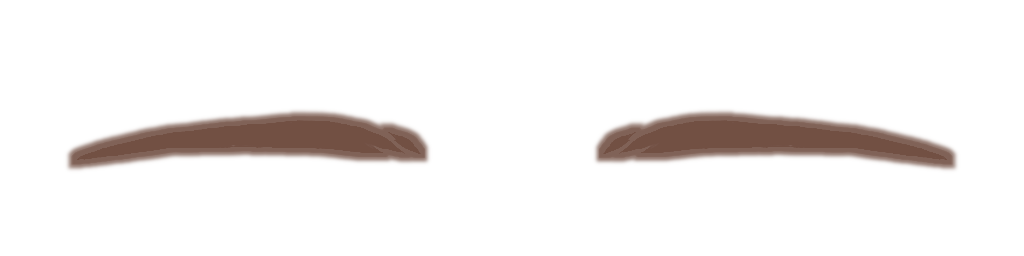
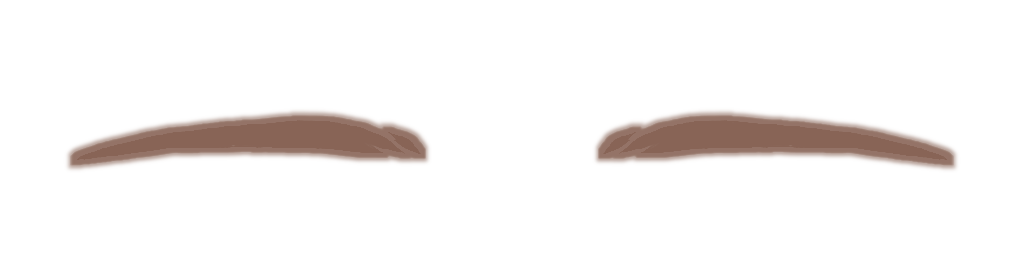
Luna's face reshape candidate (for approval): Blender reshape tools, softer smile, test switch
- tools/face_style/reshape: imports her shipped VRM, deforms face + all shape keys + blush + front hair (curtain
  bangs) + eye bones with one smooth field, exports a new VRM. The candidate VRM itself stays out of git until approved.
- FaceController: per-character recipes (Luna's happy and shy use her gentle EYE_Natural instead of half-shut joy),
  joy_floor (half-way "joy" no longer droops her lids into a sullen look).
- Appearances: avatar_variants lets a candidate model under review use its stage's profile; facestills
  --fs-luna-avatar puts it on for the stills only. Her live model is unchanged.
- Brows a little lighter and softer.

Claude-Session: https://claude.ai/code/session_01E4p1kc7YVicgZvjTJsM5Ap

diff --git a/tools/face_style/reshape/reshape.py b/tools/face_style/reshape/reshape.py
@@ -1,0 +1,210 @@
+# Luna's face reshape (Blender, background). One smooth deformation field f(p), applied to the Face mesh, every one of
+# its shape keys (each key's own positions, so blinks and visemes scale with the new eyes and mouth), the blush mesh,
+# the front hair (curtain bangs) and the eye bones. Works on a copy; the source .blend is never saved over.
+# usage: blender -b <copy>.blend --python reshape.py -- <params.json> <out.blend|-> [out.vrm]
+import bpy, bmesh, sys, json, math
+import numpy as np
+from mathutils import Vector
+
+args = sys.argv[sys.argv.index('--') + 1:]
+P = json.load(open(args[0]))
+out_blend = args[1]
+out_vrm = args[2] if len(args) > 2 else None
+
+face = bpy.data.objects['Face']
+A = [o for o in bpy.data.objects if o.type == 'ARMATURE'][0]
+me = face.data
+mw = np.array(face.matrix_world)
+imw = np.linalg.inv(mw)
+
+
+def world(co):
+    return co @ mw[:3, :3].T + mw[:3, 3]
+
+
+def local(p):
+    return p @ imw[:3, :3].T + imw[:3, 3]
+
+
+def sstep(e0, e1, x):
+    t = np.clip((x - e0) / (e1 - e0), 0, 1)
+    return t * t * (3 - 2 * t)
+
+
+# ---------------------------------------------------------------- landmarks from the basis
+B = world(np.array([v.co for v in me.vertices]))
+mat_of = np.zeros(len(B), int)
+for p in me.polygons:
+    for v in p.vertices:
+        mat_of[v] = p.material_index
+names = [m.name for m in me.materials]
+def mverts(sub):
+    i = [k for k, n in enumerate(names) if sub in n][0]
+    return np.nonzero(mat_of == i)[0]
+iris = B[mverts('EyeIris')]
+eyeL = iris[iris[:, 0] > 0].mean(0); eyeR = iris[iris[:, 0] < 0].mean(0)
+mouth = B[mverts('FaceMouth')].mean(0)
+skin_i = mverts('_Face_00_SKIN')
+S = B[skin_i]
+chin_z = S[(np.abs(S[:, 0]) < 0.004) & (S[:, 1] < -0.05)][:, 2].min()
+nz = S[(np.abs(S[:, 0]) < 0.003) & (S[:, 2] > mouth[2] + 0.01) & (S[:, 2] < eyeL[2] - 0.005)]
+nose = nz[nz[:, 1].argmin()]
+eye_z = (eyeL[2] + eyeR[2]) / 2
+lm = {'eyeL': eyeL.round(4).tolist(), 'eyeR': eyeR.round(4).tolist(), 'mouth': mouth.round(4).tolist(),
+      'nose_tip': nose.round(4).tolist(), 'chin_z': round(float(chin_z), 4)}
+print('LANDMARKS', json.dumps(lm))
+
+# skin boundary (the neck seam and the back edge) stays put: weight fades in over `seam_fade` metres
+bm = bmesh.new(); bm.from_mesh(me)
+bnd = np.array([v.index for v in bm.verts if v.is_boundary and mat_of[v.index] == mat_of[skin_i[0]]])
+bm.free()
+# only the real seams (neck, back of the head): not the eye and mouth openings in the skin
+Bb = B[bnd]
+near_feature = (np.abs(Bb[:, 2] - eye_z) < 0.03) & (Bb[:, 1] < -0.04) | (np.abs(Bb[:, 2] - mouth[2]) < 0.012) & (np.abs(Bb[:, 0]) < 0.03) & (Bb[:, 1] < -0.05)
+bnd = bnd[~near_feature]
+print('SEAM verts', len(bnd), 'z range', B[bnd][:, 2].min().round(4), B[bnd][:, 2].max().round(4), 'y range', B[bnd][:, 1].min().round(4), B[bnd][:, 1].max().round(4))
+SB = B[bnd]
+dseam = np.array([np.sqrt(((SB - b) ** 2).sum(1)).min() for b in B])
+W_seam = sstep(0.0, P['seam_fade'], dseam)
+
+
+def gauss(p, c, r):
+    d = (p - np.asarray(c)) / np.asarray(r)
+    return np.exp(-(d * d).sum(1))
+
+
+def field(p, w):
+    """the deformation of points p (world, Nx3) with per-vertex mask w"""
+    q = p.copy()
+    x, y, z = p[:, 0], p[:, 1], p[:, 2]
+    # 1) shorter face: everything below the eye line comes up by a fraction of its distance to the eye line;
+    #    a rounder, softer chin (the V widens toward a curve); fuller cheeks
+    below = np.clip(eye_z - z, 0, None)
+    t_low = np.clip((eye_z - z) / (eye_z - chin_z), 0, 1.2)
+    q[:, 2] += w * below * P['shorten']
+    tm = np.clip((mouth[2] - z) / (mouth[2] - chin_z), 0, 1)     # 0 at the mouth .. 1 at the chin
+    v_prof = np.maximum(1 - tm, 0.08)
+    round_prof = np.sqrt(np.clip(1 - tm ** 2, 0, 1))
+    k = np.clip(round_prof / v_prof, 1, P['chin_round_max'])
+    front = sstep(P['front_y'][0], P['front_y'][1], -y)        # the face front (Blender -Y is forward)
+    q[:, 0] += w * front * x * (k - 1) * P['chin_round'] * (z < mouth[2])
+    q[:, 2] += w * P['chin_lift'] * gauss(p, [0, -0.08, chin_z], [0.02, 0.05, 0.012])
+    for sx in (1, -1):
+        g = gauss(p, [sx * P['cheek'][0], P['cheek'][1], P['cheek'][2]], P['cheek_r'])
+        q[:, 0] += w * g * sx * P['cheek_out']
+        q[:, 1] -= w * g * P['cheek_fwd']
+    # 2) mouth up and smaller
+    gm = gauss(p, mouth + np.array([0, -0.01, 0]), P['mouth_r'])
+    q[:, 2] += w * gm * P['mouth_up']
+    q[:, 0] += w * gm * (mouth[0] - x) * (1 - P['mouth_scale'])
+    # 3) eyes: bigger and rounder (taller), a little lower and closer together
+    for e in (eyeL, eyeR):
+        sgn = np.sign(e[0])
+        d = (p - e) / np.asarray(P['eye_r'])
+        g = sstep(1.0, 0.0, np.sqrt((d * d).sum(1)) - P['eye_core'])       # 1 in the core, fading out
+        q[:, 0] += w * g * ((x - e[0]) * (P['eye_sx'] - 1) - sgn * P['eye_in'])
+        q[:, 2] += w * g * ((z - e[2]) * (P['eye_sz'] - 1) - P['eye_down'])
+    # 4) smaller, softer nose
+    gn = gauss(p, nose, P['nose_r'])
+    base = nose + np.array([0, P['nose_base_y'], 0])
+    q += (w * gn * (1 - P['nose_scale']))[:, None] * (base - p)
+    return q
+
+
+def eye_xform(c):
+    """where an eye centre ends up (eye bones follow the eyes)"""
+    p = c[None, :].copy()
+    return field(p, np.ones(1))[0]
+
+
+# ---------------------------------------------------------------- apply to the Face mesh and all its shape keys
+extra = np.zeros(len(B))
+lash = mverts('FaceEyelash')
+keys = me.shape_keys.key_blocks
+basis_new = None
+for kb in keys:
+    K = world(np.array([d.co for d in kb.data]))
+    Q = field(K, W_seam)
+    # 5) longer, fuller upper lashes: the lash strip grows away from the eye, upward
+    for e in (eyeL, eyeR):
+        sel = lash[(np.sign(K[lash, 0]) == np.sign(e[0]))]
+        up = np.clip(K[sel, 2] - e[2], 0, None)
+        Q[sel, 2] += up * P['lash_grow']
+        Q[sel, 0] += (K[sel, 0] - e[0]) * P['lash_grow'] * 0.25
+    # the bigger eyes crowd the brows: lift them back clear of the lids (a calm brow, not a frown)
+    brows = mverts('FaceBrow')
+    Q[brows, 2] += P.get('brow_up', 0.0)
+    L = local(Q)
+    for i, d in enumerate(kb.data):
+        d.co = L[i]
+    if kb.name == keys[0].name:
+        basis_new = L
+for i, v in enumerate(me.vertices):
+    v.co = basis_new[i]
+me.update()
+
+# the blush mesh rides the cheeks
+fb = bpy.data.objects.get('Face_Blush')
+if fb:
+    fmw = np.array(fb.matrix_world); fimw = np.linalg.inv(fmw)
+    for kb in fb.data.shape_keys.key_blocks:
+        K = np.array([d.co for d in kb.data]); Kw = K @ fmw[:3, :3].T + fmw[:3, 3]
+        Q = field(Kw, np.ones(len(Kw)))
+        L = Q @ fimw[:3, :3].T + fimw[:3, 3]
+        for i, d in enumerate(kb.data):
+            d.co = L[i]
+    for i, v in enumerate(fb.data.vertices):
+        v.co = fb.data.shape_keys.key_blocks[0].data[i].co
+    fb.data.update()
+
+# 7) curtain bangs: the front strands either side of the parting drawn toward the middle and a little down, so the
+#    forehead is framed instead of one big V (only the front of the hair, below the laurel)
+hair = bpy.data.objects.get('L1_Hair') or bpy.data.objects.get('Hairs')
+if hair and P.get('bangs', 0) > 0:
+    hm = np.array(hair.matrix_world); him = np.linalg.inv(hm)
+    H = np.array([v.co for v in hair.data.vertices]); Hw = H @ hm[:3, :3].T + hm[:3, 3]
+    x, y, z = Hw[:, 0], Hw[:, 1], Hw[:, 2]
+    zone = sstep(P['bang_front'], P['bang_front'] + 0.015, -y) * gauss(Hw * np.array([0, 0, 1]), [0, 0, P['bang_z']], [1, 1, P['bang_zr']])
+    zone *= sstep(P['bang_xmax'], P['bang_xmax'] - 0.02, np.abs(x))
+    xn = x * (1 - zone * P['bangs'])
+    # keep the moved strands on the forehead's curve (the middle of the forehead stands further forward)
+    R = P.get('bang_curve_r', 0.085)
+    Hw[:, 1] -= zone * (np.sqrt(np.clip(R * R - xn * xn, 0, None)) - np.sqrt(np.clip(R * R - x * x, 0, None)))
+    Hw[:, 0] = xn
+    Hw[:, 2] -= zone * P['bang_down']
+    Hn = Hw @ him[:3, :3].T + him[:3, 3]
+    for i, v in enumerate(hair.data.vertices):
+        v.co = Hn[i]
+    hair.data.update()
+    print('BANGS moved', int((zone > 0.05).sum()), 'hair verts')
+
+# eye bones follow the eyes
+bpy.context.view_layer.objects.active = A
+bpy.ops.object.mode_set(mode='EDIT')
+amw = np.array(A.matrix_world); aim = np.linalg.inv(amw)
+for side, e in (('L', eyeL), ('R', eyeR)):
+    # VRoid: J_Adj_L_FaceEye sits on the character's left (+X in Blender)
+    moved = eye_xform(e) - e
+    for bn in ('J_Adj_%s_FaceEyeSet' % side, 'J_Adj_%s_FaceEye' % side):
+        eb = A.data.edit_bones.get(bn)
+        if eb is None:
+            continue
+        hw = np.array(A.matrix_world @ eb.head)
+        if np.sign(hw[0]) != np.sign(e[0]):
+            continue
+        dv = Vector((aim[:3, :3] @ moved).tolist())
+        eb.head += dv; eb.tail += dv
+        print('BONE', bn, 'moved', np.round(moved, 4).tolist())
+bpy.ops.object.mode_set(mode='OBJECT')
+
+new = world(np.array([v.co for v in me.vertices]))
+S2 = new[skin_i]
+print('RESULT chin_z %.4f -> %.4f, mouth z %.4f -> %.4f, eye z %.4f -> %.4f' % (
+    chin_z, S2[(np.abs(S2[:, 0]) < 0.004) & (S2[:, 1] < -0.05)][:, 2].min(), mouth[2], new[mverts('FaceMouth')].mean(0)[2],
+    eye_z, new[mverts('EyeIris')].mean(0)[2]))
+if out_blend != '-':
+    bpy.ops.wm.save_as_mainfile(filepath=out_blend, copy=True)
+if out_vrm:
+    r = bpy.ops.export_scene.vrm(filepath=out_vrm, armature_object_name=A.name)
+    print('EXPORT', r, out_vrm)
+print('RESHAPE OK')

diff --git a/tools/face_style/reshape/render_head.py b/tools/face_style/reshape/render_head.py
@@ -1,0 +1,29 @@
+# usage: blender -b X.blend --python render_head.py -- <out_prefix> [hair=1]
+import bpy, sys, math
+from mathutils import Vector
+args = sys.argv[sys.argv.index('--') + 1:]
+pref = args[0]; hair = len(args) < 2 or args[1] != '0'
+sc = bpy.context.scene
+sc.render.engine = 'BLENDER_EEVEE_NEXT' if 'BLENDER_EEVEE_NEXT' in [e.identifier for e in bpy.types.RenderSettings.bl_rna.properties['engine'].enum_items] else 'BLENDER_EEVEE'
+sc.render.resolution_x = 900; sc.render.resolution_y = 1000
+sc.render.film_transparent = False
+for ob in bpy.data.objects:
+    if ob.type == 'MESH':
+        keep = ob.name in ('Face', 'Face_Blush', 'Body') or (hair and (ob.name.startswith('L1_Hair') or ob.name == 'Hairs' or 'Earring' in ob.name))
+        ob.hide_render = not keep
+for o in [o for o in bpy.data.objects if o.type in ('CAMERA', 'LIGHT')]:
+    bpy.data.objects.remove(o)
+w = bpy.data.worlds.new('w') if not sc.world else sc.world
+sc.world = w; w.use_nodes = True
+bg = w.node_tree.nodes.get('Background'); bg.inputs[0].default_value = (0.55, 0.55, 0.6, 1); bg.inputs[1].default_value = 1.0
+ld = bpy.data.lights.new('key', 'SUN'); ld.energy = 2.5
+lo = bpy.data.objects.new('key', ld); sc.collection.objects.link(lo); lo.rotation_euler = (math.radians(60), 0, math.radians(-20))
+cd = bpy.data.cameras.new('cam'); cd.type = 'ORTHO'; cd.ortho_scale = 0.3
+cam = bpy.data.objects.new('cam', cd); sc.collection.objects.link(cam); sc.camera = cam
+target = Vector((0, -0.03, 1.555))
+for name, d in [('front', Vector((0, -1, 0))), ('side', Vector((1, 0, 0))), ('three', Vector((0.6, -1, 0.05)).normalized())]:
+    cam.location = target + d * 1.0
+    cam.rotation_euler = (target - cam.location).to_track_quat('-Z', 'Y').to_euler()
+    sc.render.filepath = '%s_%s.png' % (pref, name)
+    bpy.ops.render.render(write_still=True)
+print('RENDER OK')

diff --git a/tools/face_style/reshape/import_vrm.py b/tools/face_style/reshape/import_vrm.py
@@ -1,0 +1,7 @@
+import bpy, sys
+a = sys.argv[sys.argv.index('--') + 1:]
+bpy.ops.wm.read_factory_settings(use_empty=True)
+bpy.ops.preferences.addon_enable(module='bl_ext.user_default.vrm')
+print('IMPORT', bpy.ops.import_scene.vrm(filepath=a[0]))
+print('OBJECTS', [o.name for o in bpy.data.objects])
+bpy.ops.wm.save_as_mainfile(filepath=a[1])

diff --git a/tools/face_style/reshape/export.py b/tools/face_style/reshape/export.py
@@ -1,0 +1,4 @@
+import bpy, sys
+out = sys.argv[sys.argv.index('--') + 1]
+A = [o for o in bpy.data.objects if o.type == 'ARMATURE'][0]
+print('EXPORT', bpy.ops.export_scene.vrm(filepath=out, armature_object_name=A.name), out)

diff --git a/tools/face_style/reshape/README.md b/tools/face_style/reshape/README.md
@@ -1,0 +1,12 @@
+# Luna's face reshape (Blender 4.2 + VRM Add-on, background)
+
+1. `blender -b --python import_vrm.py -- <LunaOracle_L1Outfit.vrm> <work.blend>` (the shipped VRM; the lab's saved .blend
+   predates its last two sleeve spring chains, so the round trip starts from the VRM itself)
+2. `blender -b <work.blend> --python reshape.py -- luna_l1_params.json <out.blend> <out.vrm>`
+3. `blender -b <out.blend> --python render_head.py -- <prefix> [1|0 hair]` for front / three-quarter / side checks
+
+One smooth deformation field moves the face mesh and every shape key (each key's own positions, so blinks and visemes
+fit the new eyes and mouth), the blush mesh, the front hair (curtain bangs, kept on the forehead's curve) and the eye
+bones. Shorter face, rounder chin, fuller cheeks, mouth higher and smaller, bigger rounder eyes a little lower and
+closer, smaller nose, longer upper lashes, brows lifted clear of the bigger lids. Textures are unchanged (UV-mapped,
+so tools/face_style/make_luna_face.py's eyes, lips, lashes and blush ride the new shape).
